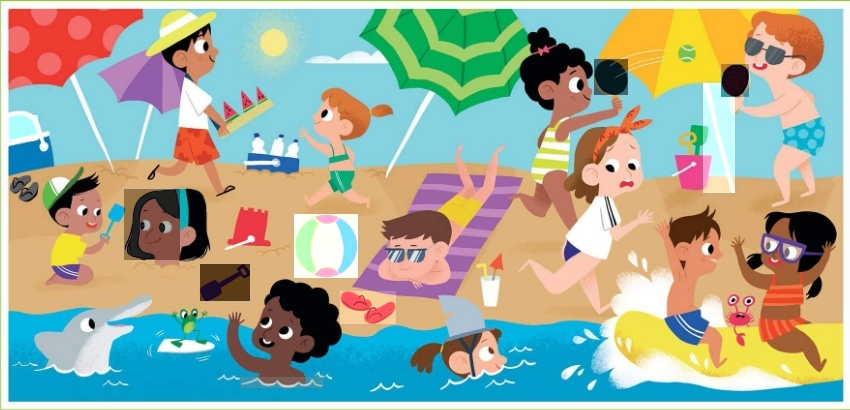
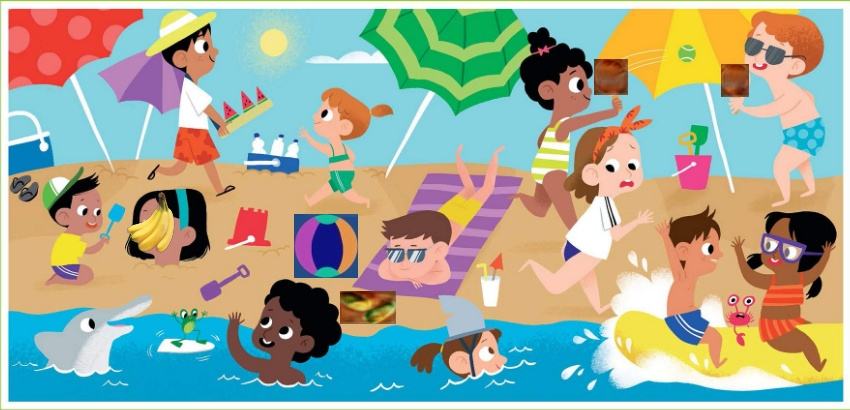
finish

diff --git a/GameData/image/image_handle.py b/GameData/image/image_handle.py
@@ -105,22 +105,29 @@ class convertImageMaker:
       crop_location[2]:crop_location[2] + crop_location[3]] = dst
       pass
     return img_cut1
-  def add_image(self, dir, lines, img_ori, item):
-    if os.path.isfile(os.path.join(dir, item)) and ".jpg" in item:
-      item_index = item.replace(".jpg", "")
-
-      crop_location = lines[item_index].split()
+  def add_image(self, dir_addImage, lines, img_ori, item):
+    if os.path.isfile(os.path.join(dir_addImage, item)) and ".png" in item:
+      item_index = int(item.replace(".png", ""))
+      #print(lines)
+      if item_index - 1 >= len(lines):
+        return img_ori
+      crop_location = lines[item_index - 1].split()
       crop_location = list(map(int, crop_location))
-      item = cv2.resize(item, dsize=(crop_location[3], crop_location[1]),interpolation=cv2.INTER_AREA)
+      img_paste = cv2.imread(os.path.join(dir_addImage, item), cv2.IMREAD_UNCHANGED)
+      #print(os.path.join(dir_addImage, item))
+      img_paste = cv2.resize(img_paste, dsize=(crop_location[3], crop_location[1]),interpolation=cv2.INTER_AREA)
+      
       y_offset = crop_location[0]
       x_offset = crop_location[2]
-      y1, y2 = y_offset, y_offset + item.shape[0]
-      x1, x2 = x_offset, x_offset + item.shape[1]
-      alpha_s = item[:, :, 2] / 255.0
+      y1, y2 = y_offset, y_offset + img_paste.shape[0]
+      x1, x2 = x_offset, x_offset + img_paste.shape[1]
+      alpha_s = img_paste[:, :, 2] / 255.0
       alpha_l = 1.0 - alpha_s
       for c in range(0, 3):
-        img_ori[y1:y2, x1:x2, c] = (alpha_s * item[:, :, c] + alpha_l * img_ori[y1:y2, x1:x2, c])
+        img_ori[y1:y2, x1:x2, c] = (alpha_s * img_paste[:, :, c] + alpha_l * img_ori[y1:y2, x1:x2, c])
         pass
+    # cv2.imshow("ori", img_ori)
+    # cv2.waitKey()
     return img_ori
   
   def do_gan(self, dir, lines, img_cut1, item):
@@ -177,10 +184,9 @@ class convertImageMaker:
     elif convert_type == 3:
       img_ori = cv2.imread(os.path.join("image/result_images/original_image.jpg"), cv2.IMREAD_COLOR)
       dir_addImage = './image/clean_back'
-      dirs_addImage = os.listdir(dir)
-      print(os.path.join(dir, "apple.png"))
-      for item in dirs:
-        img_ori = self.add_image(dir, lines, img_ori, item)
+      dirs_addImage = os.listdir(dir_addImage)
+      for item in dirs_addImage:
+        img_ori = self.add_image(dir_addImage, lines, img_ori, item)
         pass
       self.save_image(img_ori, width_ori, height_ori)
       pass
@@ -221,7 +227,7 @@ class convertImageMaker:
       res = 0
 
       for item_gan in os.listdir(dir_gan):
-        option = random.randint(5, 5)
+        option = random.randint(1, 5)
         #print(item)
         if option == 1:
           #do get_rotation
@@ -237,8 +243,8 @@ class convertImageMaker:
         elif option == 3:
           if res >= len(item_addImage):
             continue
-          img_ori = self.add_image(dir_addImage, lines, img_ori, item_addImage[res])
-          self.save_image(img_ori, width_ori, height_ori)
+          img_cut1 = self.add_image(dir_addImage, lines, img_ori, item_addImage[res])
+
           pass
         elif option == 4:
           #print(item_gan[res])
